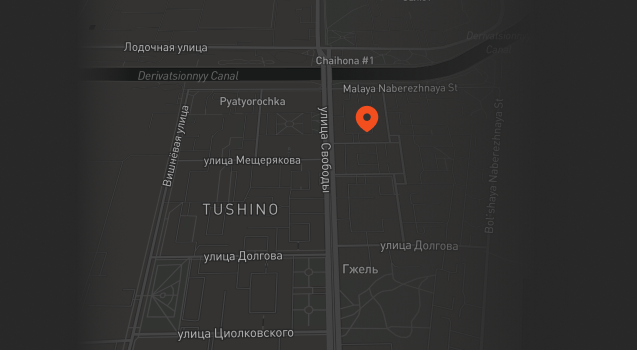
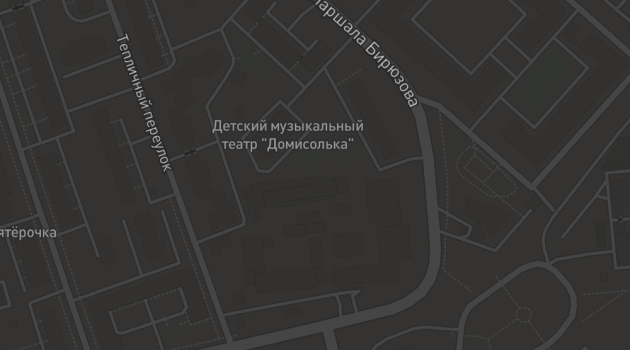
fix contacts

diff --git a/src/app/components/footer/footer.component.html b/src/app/components/footer/footer.component.html
@@ -2,7 +2,7 @@
     <div class="footer">
         <div class="footer__nav">
             <ul>
-                <li>Москва, ул. Подмосковная 12а</li>
+                <li>ул. Маршала Бирюзова д.1 корп.2</li>
                 <li><a href="mailto:info@fitserv.ru">info@fitserv.ru</a></li>
                 <li><a href="tel:+79017111769">+7 901 711-17-69</a></li>
             </ul>
@@ -16,10 +16,10 @@
             </div>
         </div>
         <div class="footer__map" *ngIf="!mobile">
-            <a href="https://yandex.ru/maps/-/CCU5Y8sBoC"><img src="../../../assets/img/map.png"></a>
+            <a href="https://yandex.ru/maps/-/CCUNeRWvHB"><img src="../../../assets/img/map.png"></a>
         </div>
         <div class="footer__map" *ngIf="mobile">
-            <a href="https://yandex.ru/maps/-/CCU5Y8sBoC"><img src="../../../assets/img/mobile-map.png"></a>
+            <a href="https://yandex.ru/maps/-/CCUNeRWvHB"><img src="../../../assets/img/mobile-map.png"></a>
         </div>
     </div>
 </div>
